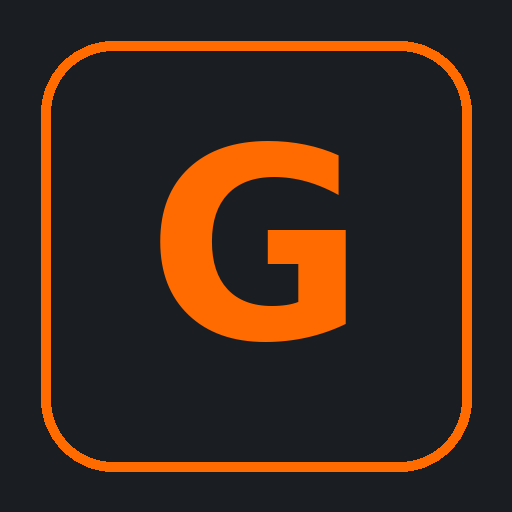
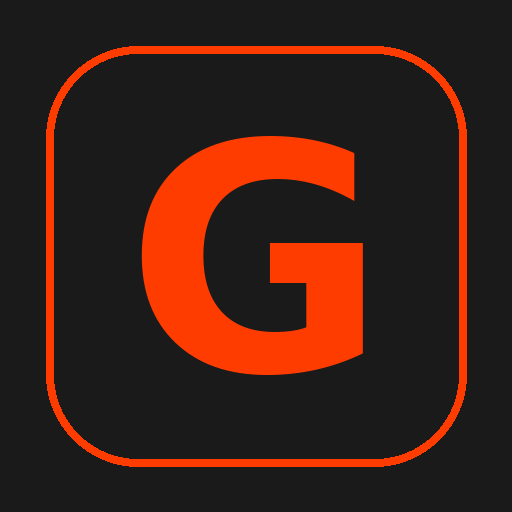
อัปเดตเว็บ 11/08/2026 17:37

Changed region(s): [[0.0625, 0.0625, 0.9375, 0.9375], [0.25, 0.25, 0.7188, 0.75]]

diff --git a/src/components/SearchClient.tsx b/src/components/SearchClient.tsx
@@ -102,7 +102,7 @@ export default function SearchClient() {
         <div className="flex items-center gap-2">
           <Link href="/" aria-label="กลับหน้าแรก" className="shrink-0 px-1 text-xl text-white">‹</Link>
           <div className="flex flex-1 items-center gap-2 rounded-sm bg-white px-2.5 py-1.5">
-            <svg viewBox="0 0 24 24" className="h-4 w-4 shrink-0 fill-none stroke-[#757575] stroke-2">
+            <svg viewBox="0 0 24 24" className="h-4 w-4 shrink-0 fill-none stroke-[#6b6b6b] stroke-2">
               <circle cx="11" cy="11" r="7" />
               <path d="M20 20l-3.5-3.5" strokeLinecap="round" />
             </svg>
@@ -112,11 +112,11 @@ export default function SearchClient() {
               value={q}
               onChange={(ev) => setQ(ev.target.value)}
               placeholder="ค้นหาเลื่อยยนต์ โซ่ อะไหล่ รหัสสินค้า..."
-              className="w-full bg-transparent text-[13px] text-[#222] outline-none placeholder:text-[#9a9a9a]"
+              className="w-full bg-transparent text-[13px] text-[#1a1a1a] outline-none placeholder:text-[#8a8a8a]"
             />
             {q && (
               <button onClick={() => { setQ(""); inputRef.current?.focus(); }} aria-label="ล้าง"
-                className="shrink-0 text-base leading-none text-[#9a9a9a]">×</button>
+                className="shrink-0 text-base leading-none text-[#8a8a8a]">×</button>
             )}
           </div>
         </div>
@@ -129,7 +129,7 @@ export default function SearchClient() {
           <div className="flex flex-wrap gap-2">
             {POPULAR.map((w) => (
               <button key={w} onClick={() => setQ(w)}
-                className="rounded-full border border-steel-600 px-3 py-1.5 text-[13px] text-[#333]">
+                className="rounded-full border border-steel-600 px-3 py-1.5 text-[13px] text-[#1a1a1a]">
                 {w}
               </button>
             ))}
@@ -175,7 +175,7 @@ export default function SearchClient() {
                   )}
                 </div>
                 <div className="p-2">
-                  <p className="clamp-2 min-h-[2.5rem] text-[13px] leading-tight text-[#333]">{e.t}</p>
+                  <p className="clamp-2 min-h-[2.5rem] text-[13px] leading-tight text-[#1a1a1a]">{e.t}</p>
                   <div className="mt-1.5 flex items-baseline gap-1.5">
                     <span className="font-heading text-[15px] font-semibold text-safety">
                       {e.m > e.p ? `${formatPrice(e.p)} - ${formatPrice(e.m)}` : formatPrice(e.p)}
@@ -201,7 +201,7 @@ export default function SearchClient() {
 
           {shown < results.length && (
             <button onClick={() => setShown((s) => s + PAGE)}
-              className="mt-3 w-full rounded-lg border border-steel-600 py-2.5 text-[13px] text-[#333]">
+              className="mt-3 w-full rounded-lg border border-steel-600 py-2.5 text-[13px] text-[#1a1a1a]">
               โหลดเพิ่ม ({(results.length - shown).toLocaleString("th-TH")} รายการ)
             </button>
           )}

diff --git a/tailwind.config.ts b/tailwind.config.ts
@@ -1,23 +1,30 @@
 import type { Config } from "tailwindcss";
 
-// ธีม "industrial steel + safety orange" ของ GUCUT
+// สีประจำแบรนด์ GUCUT — ส้มแดง #FF3C00 · เทาอ่อน #EFEFEF · ดำ
 const config: Config = {
   content: ["./src/**/*.{ts,tsx}"],
   theme: {
     extend: {
       colors: {
-        // ธีมขาวแนว Shopee — ใช้ชื่อเดิมเพื่อให้ทุก component พลิกตามอัตโนมัติ
+        // ใช้ชื่อเดิม (steel/safety) เพื่อให้ทุก component เปลี่ยนสีตามอัตโนมัติ
         steel: {
-          900: "#f5f5f5", // พื้นหลังหน้า (เทาอ่อนแบบ Shopee)
+          900: "#efefef", // พื้นหลังหน้า — สีแบรนด์
           800: "#ffffff", // พื้นการ์ด/แถบ = ขาว
-          700: "#e8e8e8", // เส้นขอบอ่อน
-          600: "#d5d5d5", // เส้นขอบเข้มขึ้น
-          300: "#757575", // ตัวหนังสือรอง (เทา)
+          700: "#dcdcdc", // เส้นขอบอ่อน (เข้มขึ้นให้เห็นบนพื้น #efefef)
+          600: "#c7c7c7", // เส้นขอบเข้มขึ้น
+          300: "#6b6b6b", // ตัวหนังสือรอง — ผ่านเกณฑ์อ่านง่ายบนพื้นเทา
         },
         safety: {
-          DEFAULT: "#ff6b00", // ส้ม safety สีหลัก
-          dark: "#e05e00",
-          light: "#ff8a33",
+          DEFAULT: "#ff3c00", // ส้มแดงประจำแบรนด์
+          dark: "#d93000",    // ตอนกด/ชี้
+          light: "#ff7a52",   // ไล่เฉด
+          tint: "#fff2ee",    // พื้นอ่อนมาก ใช้รองแถบรีวิว/ตัวกรอง
+        },
+        ink: {
+          DEFAULT: "#1a1a1a", // ดำประจำแบรนด์ — ตัวหนังสือหลัก
+          700: "#333333",     // ตัวหนังสือรอง
+          500: "#6b6b6b",     // ตัวหนังสือจาง
+          300: "#8a8a8a",     // ตัวหนังสือจางมาก
         },
       },
       // ฟอนต์ระบบของเครื่องลูกค้า — แนวเดียวกับ shopee.co.th ที่ไม่โหลดฟอนต์ไทยเลย

diff --git a/src/components/ProductDetail.tsx b/src/components/ProductDetail.tsx
@@ -88,7 +88,7 @@ export default function ProductDetail({
             </>
           )}
         </div>
-        <h1 className="mt-2 text-[15px] leading-snug text-[#222]">{p.t}</h1>
+        <h1 className="mt-2 text-[15px] leading-snug text-[#1a1a1a]">{p.t}</h1>
         {p.rv && (
           <a href="#reviews" className="mt-2 flex items-center gap-1.5 text-xs">
             <Stars value={p.rv.a} size={13} />
@@ -117,7 +117,7 @@ export default function ProductDetail({
         >
           <span className="text-sm text-steel-300">
             {p.opt ?? "ตัวเลือก"}
-            <span className="ml-2 text-[#222]">มี {p.v.length} แบบให้เลือก</span>
+            <span className="ml-2 text-[#1a1a1a]">มี {p.v.length} แบบให้เลือก</span>
           </span>
           <span className="text-steel-300">›</span>
         </button>
@@ -132,7 +132,7 @@ export default function ProductDetail({
               <Link
                 key={c.h}
                 href={`/c/${encodeURIComponent(c.h)}/`}
-                className="rounded-full border border-steel-600 px-2.5 py-1 text-xs text-[#333]"
+                className="rounded-full border border-steel-600 px-2.5 py-1 text-xs text-[#1a1a1a]"
               >
                 {c.t}
               </Link>
@@ -148,7 +148,7 @@ export default function ProductDetail({
       {p.d && (
         <section className="mt-2 bg-steel-800 px-3 py-3">
           <h2 className="mb-2 font-heading text-base font-semibold">รายละเอียดสินค้า</h2>
-          <div className="space-y-1 text-[13px] leading-relaxed text-[#555]">
+          <div className="space-y-1 text-[13px] leading-relaxed text-[#4a4a4a]">
             {p.d.split("•").map((line, n) =>
               line.trim() ? <p key={n}>• {line.trim()}</p> : null
             )}
@@ -171,7 +171,7 @@ export default function ProductDetail({
                   {r.img && <Image src={r.img} alt={r.t} fill sizes="112px" className="object-contain" />}
                 </div>
                 <div className="p-1.5">
-                  <p className="clamp-2 text-[11px] leading-tight text-[#333]">{r.t}</p>
+                  <p className="clamp-2 text-[11px] leading-tight text-[#1a1a1a]">{r.t}</p>
                   <p className="mt-0.5 text-xs font-semibold text-safety">{formatPrice(r.p)}</p>
                 </div>
               </Link>

diff --git a/src/components/VariantSheet.tsx b/src/components/VariantSheet.tsx
@@ -102,7 +102,7 @@ export default function VariantSheet({
         {/* ปุ่มตัวเลือก */}
         {hasVariants && (
           <div className="p-3">
-            <p className="mb-2 text-sm text-[#333]">{product.opt ?? "ตัวเลือก"}</p>
+            <p className="mb-2 text-sm text-[#1a1a1a]">{product.opt ?? "ตัวเลือก"}</p>
             <div className="flex flex-wrap gap-2">
               {product.v.map((v) => {
                 const out = v.s <= 0;
@@ -121,7 +121,7 @@ export default function VariantSheet({
                         ? "cursor-not-allowed border-steel-700 text-steel-600 line-through"
                         : active
                           ? "border-safety bg-safety/10 text-safety"
-                          : "border-steel-600 text-[#333] active:border-safety",
+                          : "border-steel-600 text-[#1a1a1a] active:border-safety",
                     ].join(" ")}
                   >
                     {v.t}
@@ -134,11 +134,11 @@ export default function VariantSheet({
 
         {/* จำนวน */}
         <div className="flex items-center justify-between px-3 py-2">
-          <span className="text-sm text-[#333]">จำนวน</span>
+          <span className="text-sm text-[#1a1a1a]">จำนวน</span>
           <div className="flex items-center gap-3">
             <button
               onClick={() => setQty((q) => Math.max(1, q - 1))}
-              className="h-8 w-8 rounded border border-steel-600 text-lg leading-none text-[#333]"
+              className="h-8 w-8 rounded border border-steel-600 text-lg leading-none text-[#1a1a1a]"
               aria-label="ลดจำนวน"
             >
               −
@@ -146,7 +146,7 @@ export default function VariantSheet({
             <span className="w-10 text-center text-base">{qty}</span>
             <button
               onClick={() => setQty((q) => Math.min(max, q + 1))}
-              className="h-8 w-8 rounded border border-steel-600 text-lg leading-none text-[#333]"
+              className="h-8 w-8 rounded border border-steel-600 text-lg leading-none text-[#1a1a1a]"
               aria-label="เพิ่มจำนวน"
             >
               +

diff --git a/src/components/SearchBar.tsx b/src/components/SearchBar.tsx
@@ -3,21 +3,27 @@ import Link from "next/link";
 // หัวเว็บแบบ Shopee — แถบส้มเต็มความกว้าง โลโก้ + ช่องค้นหาขาว + ไอคอนตะกร้า
 export default function SearchBar() {
   return (
-    <header className="sticky top-0 z-40 bg-safety px-3 pb-2 pt-3 shadow-sm">
+    <header className="sticky top-0 z-40 bg-ink px-3 pb-2 pt-3 shadow-sm">
       <div className="flex items-center gap-2">
-        <Link href="/" className="shrink-0 font-heading text-lg font-bold tracking-tight text-white">
-          GUCUT
+        {/* โลโก้ตามอาร์ตเวิร์กจริง: GU ส้ม + CUT เทา บนแถบดำ */}
+        <Link
+          href="/"
+          aria-label="GUCUT หน้าแรก"
+          className="shrink-0 font-heading text-[19px] font-extrabold italic leading-none tracking-tight"
+        >
+          <span className="text-safety">GU</span>
+          <span className="text-[#c9cacc]">CUT</span>
         </Link>
         {/* แตะแล้วไปหน้า /search ที่มีช่องพิมพ์จริง (ดัชนีโหลดที่นั่นทีเดียว) */}
         <Link
           href="/search/"
           className="flex flex-1 items-center gap-2 rounded-sm bg-white px-2.5 py-1.5"
         >
-          <svg viewBox="0 0 24 24" className="h-4 w-4 shrink-0 fill-none stroke-[#757575] stroke-2">
+          <svg viewBox="0 0 24 24" className="h-4 w-4 shrink-0 fill-none stroke-[#6b6b6b] stroke-2">
             <circle cx="11" cy="11" r="7" />
             <path d="M20 20l-3.5-3.5" strokeLinecap="round" />
           </svg>
-          <span className="w-full truncate text-[13px] text-[#9a9a9a]">
+          <span className="w-full truncate text-[13px] text-[#8a8a8a]">
             ค้นหาเลื่อยยนต์ โซ่ อะไหล่ รหัสสินค้า...
           </span>
         </Link>

diff --git a/src/components/AllReviews.tsx b/src/components/AllReviews.tsx
@@ -76,7 +76,7 @@ export default function AllReviews({
   return (
     <>
       {/* สรุปคะแนน */}
-      <div className="flex items-center gap-3 bg-[#fffbf8] px-3 py-3">
+      <div className="flex items-center gap-3 bg-[#fff2ee] px-3 py-3">
         <div className="text-center">
           <div className="font-heading text-3xl font-bold leading-none text-safety">
             {avg.toFixed(1)}
@@ -103,10 +103,10 @@ export default function AllReviews({
               onClick={() => { setTab(t.k); setShown(PAGE); }}
               className={`shrink-0 rounded-full border px-3 py-1 text-xs transition-colors ${
                 tab === t.k
-                  ? "border-safety bg-[#fff5ef] text-safety"
+                  ? "border-safety bg-[#fff2ee] text-safety"
                   : off
                     ? "border-steel-700 text-steel-600"
-                    : "border-steel-600 text-[#444]"
+                    : "border-steel-600 text-[#333333]"
               }`}
             >
               {t.label}
@@ -143,7 +143,7 @@ export default function AllReviews({
             <div className="px-3 py-4">
               <button
                 onClick={() => setShown((s) => s + PAGE)}
-                className="w-full rounded-lg border border-steel-600 py-2.5 text-[13px] text-[#333]"
+                className="w-full rounded-lg border border-steel-600 py-2.5 text-[13px] text-[#1a1a1a]"
               >
                 โหลดเพิ่ม ({(list.length - shown).toLocaleString("th-TH")} รีวิว)
               </button>

diff --git a/src/components/ReviewCard.tsx b/src/components/ReviewCard.tsx
@@ -6,10 +6,10 @@ export default function ReviewCard({ r }: { r: Review }) {
   return (
     <li className="py-3 first:pt-0">
       <div className="flex items-center gap-2">
-        <span className="flex h-6 w-6 shrink-0 items-center justify-center rounded-full bg-steel-700 text-[10px] font-semibold text-[#555]">
+        <span className="flex h-6 w-6 shrink-0 items-center justify-center rounded-full bg-steel-700 text-[10px] font-semibold text-[#4a4a4a]">
           {initial(r.author)}
         </span>
-        <span className="truncate text-[13px] text-[#333]">{r.author}</span>
+        <span className="truncate text-[13px] text-[#1a1a1a]">{r.author}</span>
         <span className="ml-auto shrink-0 rounded bg-[#f0fbf3] px-1.5 py-0.5 text-[10px] font-medium text-[#1f9254]">
           ซื้อจริง
         </span>
@@ -20,7 +20,7 @@ export default function ReviewCard({ r }: { r: Review }) {
         <span className="text-[11px] text-steel-300">{thaiDate(r.date)}</span>
       </div>
 
-      {r.text && <p className="mt-1.5 text-[13px] leading-relaxed text-[#444]">{r.text}</p>}
+      {r.text && <p className="mt-1.5 text-[13px] leading-relaxed text-[#333333]">{r.text}</p>}
 
       {/* คลิปจากลูกค้า — เก็บไฟล์ไว้บนเว็บเราเอง เล่นได้ตลอด ไม่หมดอายุ */}
       {r.video && (

diff --git a/src/app/products/[handle]/reviews/page.tsx b/src/app/products/[handle]/reviews/page.tsx
@@ -38,7 +38,7 @@ export default async function ReviewsPage({ params }: { params: Promise<{ handle
     <main className="pb-10">
       {/* หัวหน้า */}
       <header className="sticky top-0 z-40 flex h-[52px] items-center gap-2 border-b border-steel-700 bg-white px-2">
-        <Link href={productUrl} aria-label="ย้อนกลับ" className="px-1 text-xl text-[#333]">
+        <Link href={productUrl} aria-label="ย้อนกลับ" className="px-1 text-xl text-[#1a1a1a]">
           ‹
         </Link>
         <h1 className="font-heading text-[15px] font-semibold">รีวิวทั้งหมด</h1>
@@ -53,7 +53,7 @@ export default async function ReviewsPage({ params }: { params: Promise<{ handle
           {p.img && <Image src={p.img} alt={p.t} fill sizes="56px" className="object-contain" />}
         </div>
         <div className="min-w-0">
-          <p className="clamp-2 text-[13px] leading-tight text-[#333]">{p.t}</p>
+          <p className="clamp-2 text-[13px] leading-tight text-[#1a1a1a]">{p.t}</p>
           <p className="mt-0.5 text-[13px] font-semibold text-safety">{formatPrice(p.p)}</p>
         </div>
         <span className="ml-auto text-steel-300">›</span>

diff --git a/src/app/categories/page.tsx b/src/app/categories/page.tsx
@@ -21,7 +21,7 @@ export default function CategoriesPage() {
               href={`/c/${encodeURIComponent(c.h)}/`}
               className="rounded-lg bg-steel-800 p-3 active:scale-[0.98]"
             >
-              <p className="font-heading text-[15px] font-semibold text-[#222]">{c.t}</p>
+              <p className="font-heading text-[15px] font-semibold text-[#1a1a1a]">{c.t}</p>
               <p className="mt-0.5 text-xs text-steel-300">{c.n} รายการ</p>
             </Link>
           ))}
@@ -38,7 +38,7 @@ export default function CategoriesPage() {
                 href={`/c/${encodeURIComponent(c.h)}/`}
                 className="rounded-lg bg-steel-800 p-3 active:scale-[0.98]"
               >
-                <p className="text-[13px] leading-tight text-[#222]">{c.t}</p>
+                <p className="text-[13px] leading-tight text-[#1a1a1a]">{c.t}</p>
                 <p className="mt-0.5 text-xs text-steel-300">{c.n} รายการ</p>
               </Link>
             ))}

diff --git a/src/components/ReviewSection.tsx b/src/components/ReviewSection.tsx
@@ -25,7 +25,7 @@ export default function ReviewSection({
       </div>
 
       {/* สรุปคะแนน */}
-      <div className="mt-2 flex items-center gap-3 rounded-sm bg-[#fffbf8] px-3 py-2.5">
+      <div className="mt-2 flex items-center gap-3 rounded-sm bg-[#fff2ee] px-3 py-2.5">
         <div className="text-center">
           <div className="font-heading text-2xl font-bold leading-none text-safety">
             {summary.a.toFixed(1)}
@@ -51,7 +51,7 @@ export default function ReviewSection({
 
       <Link
         href={href}
-        className="mt-3 block rounded-lg border border-steel-600 py-2.5 text-center text-[13px] text-[#333]"
+        className="mt-3 block rounded-lg border border-steel-600 py-2.5 text-center text-[13px] text-[#1a1a1a]"
       >
         ดูรีวิวทั้งหมด ({summary.n.toLocaleString("th-TH")})
       </Link>

diff --git a/src/components/CheckoutView.tsx b/src/components/CheckoutView.tsx
@@ -135,7 +135,7 @@ export default function CheckoutView() {
           <div className="rounded-lg bg-steel-800 p-3 text-sm">
             {items.map((i) => (
               <div key={`${i.productId}-${i.variant}`} className="flex justify-between py-0.5">
-                <span className="min-w-0 flex-1 truncate pr-2 text-[#555]">
+                <span className="min-w-0 flex-1 truncate pr-2 text-[#4a4a4a]">
                   {i.title} ({i.variant}) ×{i.qty}
                 </span>
                 <span className="shrink-0">{formatPrice(i.price * i.qty)}</span>

diff --git a/src/components/Stars.tsx b/src/components/Stars.tsx
@@ -18,8 +18,8 @@ function Star({ fill, size }: { fill: number; size: number }) {
     <svg width={size} height={size} viewBox="0 0 24 24" className="shrink-0">
       <defs>
         <linearGradient id={id}>
-          <stop offset={`${fill * 100}%`} stopColor="#ee4d2d" />
-          <stop offset={`${fill * 100}%`} stopColor="#e0e0e0" />
+          <stop offset={`${fill * 100}%`} stopColor="#ff3c00" />
+          <stop offset={`${fill * 100}%`} stopColor="#d8d8d8" />
         </linearGradient>
       </defs>
       <path d={d} fill={`url(#${id})`} />
